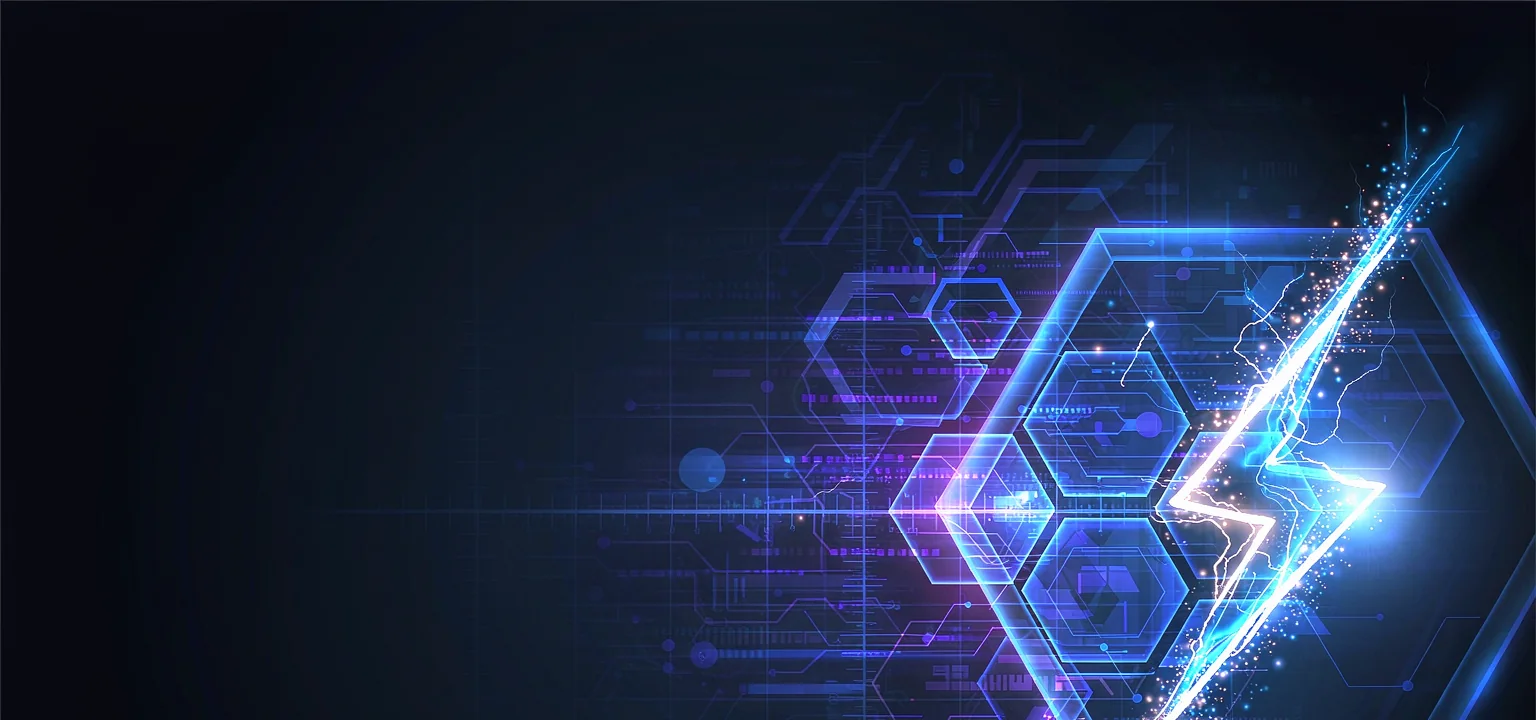
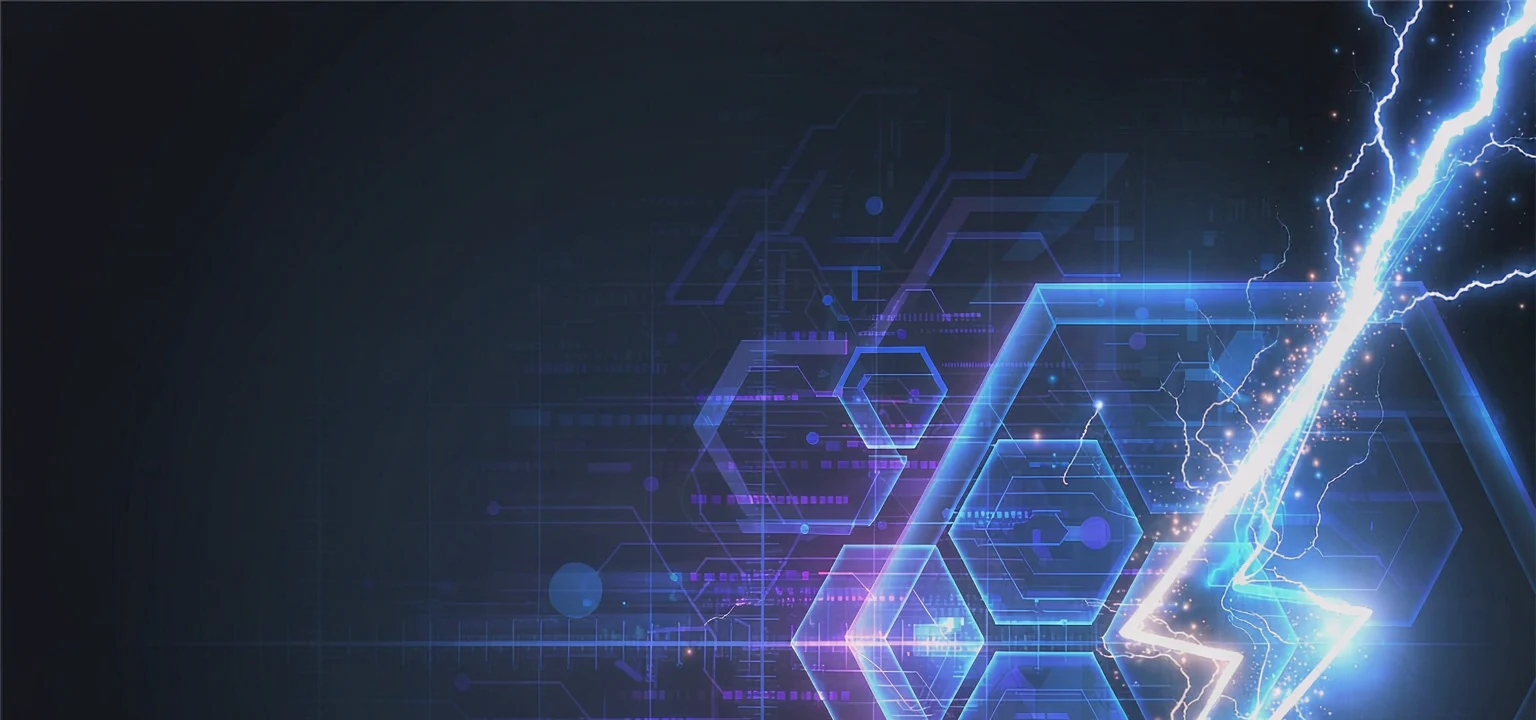
thunder hero: regenerate art with much bolder lightning (img2img), recenter focal anchors

diff --git a/site.css b/site.css
@@ -176,8 +176,8 @@ button.theme-toggle:hover { border-color: var(--acc); }
 }
 .hero-banner--thunder {
   --hb-acc: #4653b0; --hb-glow: rgba(70,83,176,.20);
-  --hb-base: #e7e1d8; --hb-rgb: 231,225,216; --hb-py: 69%;
-  --hb-art: url(assets/hero-banner-thunder-light.webp);
+  --hb-base: #e7e1d8; --hb-rgb: 231,225,216; --hb-py: 68%;
+  --hb-art: url(assets/hero-banner-thunder-light.webp?v=2);
 }
 
 /* the artwork layer, feathered along its left edge */
@@ -257,8 +257,8 @@ html[lang="zh-CN"] .hb-kicker { letter-spacing: .06em; }
   --hb-acc: #ff8a5c; --hb-glow: rgba(255,116,64,.5);
 }
 :root[data-theme="dark"] .hero-banner--thunder {
-  --hb-base: #080911; --hb-rgb: 8,9,17; --hb-py: 66%;
-  --hb-art: url(assets/hero-banner-thunder.webp);
+  --hb-base: #080911; --hb-rgb: 8,9,17; --hb-py: 69%;
+  --hb-art: url(assets/hero-banner-thunder.webp?v=2);
   --hb-acc: #93a8ff; --hb-glow: rgba(110,150,255,.5);
 }
 :root[data-theme="dark"] .hero-banner h1 { text-shadow: 0 0 22px var(--hb-glow), 0 0 60px rgba(0,0,0,.35); }
@@ -274,8 +274,8 @@ html[lang="zh-CN"] .hb-kicker { letter-spacing: .06em; }
     --hb-acc: #ff8a5c; --hb-glow: rgba(255,116,64,.5);
   }
   :root:not([data-theme="light"]) .hero-banner--thunder {
-    --hb-base: #080911; --hb-rgb: 8,9,17; --hb-py: 66%;
-    --hb-art: url(assets/hero-banner-thunder.webp);
+    --hb-base: #080911; --hb-rgb: 8,9,17; --hb-py: 69%;
+    --hb-art: url(assets/hero-banner-thunder.webp?v=2);
     --hb-acc: #93a8ff; --hb-glow: rgba(110,150,255,.5);
   }
   :root:not([data-theme="light"]) .hero-banner h1 { text-shadow: 0 0 22px var(--hb-glow), 0 0 60px rgba(0,0,0,.35); }

diff --git a/thunder/specification.html b/thunder/specification.html
@@ -4,7 +4,7 @@
 <meta charset="utf-8">
 <meta name="viewport" content="width=device-width, initial-scale=1">
 <title>Specification — Thunder (hash-33)</title>
-<link rel="stylesheet" href="../site.css?v=38">
+<link rel="stylesheet" href="../site.css?v=40">
 <script src="../theme.js?v=2"></script>
 <link rel="icon" type="image/png" href="../assets/favicon-thunder.png">
 <meta name="description" content="Thunder (hash-33), an NGCC Round-1 hash candidate: the 12-round permutation Thunder-p (Keccak-p lane geometry, order ι→ρ→θ→π→ψ, degree-3 ψ) in the sponge-forward mode. Parameters, sponge-forward mode and the permutation, with round constants.">

diff --git a/dragon/implementations.html b/dragon/implementations.html
@@ -4,7 +4,7 @@
 <meta charset="utf-8">
 <meta name="viewport" content="width=device-width, initial-scale=1">
 <title>Implementations — Dragon (hash-07)</title>
-<link rel="stylesheet" href="../site.css?v=38">
+<link rel="stylesheet" href="../site.css?v=40">
 <script src="../theme.js?v=2"></script>
 <link rel="icon" type="image/png" href="../assets/favicon-dragon.png">
 <meta name="description" content="Dragon (hash-07), an NGCC Round-1 hash candidate: the 16-round ARX permutation Dragon-p in the sponge-forward mode — specs, code, KAT, performance and third-party analysis. Package layout, build & KAT instructions, implementation-vs-spec review notes.">

diff --git a/dragon/performance.html b/dragon/performance.html
@@ -4,7 +4,7 @@
 <meta charset="utf-8">
 <meta name="viewport" content="width=device-width, initial-scale=1">
 <title>Performance — Dragon (hash-07)</title>
-<link rel="stylesheet" href="../site.css?v=38">
+<link rel="stylesheet" href="../site.css?v=40">
 <script src="../theme.js?v=2"></script>
 <link rel="icon" type="image/png" href="../assets/favicon-dragon.png">
 <meta name="description" content="Dragon (hash-07), an NGCC Round-1 hash candidate: the 16-round ARX permutation Dragon-p in the sponge-forward mode — specs, code, KAT, performance and third-party analysis. Designer self-assessment (S1–S8, x86-64 and ARM) and the ASIC hardware tables.">

diff --git a/dragon/analysis.html b/dragon/analysis.html
@@ -4,7 +4,7 @@
 <meta charset="utf-8">
 <meta name="viewport" content="width=device-width, initial-scale=1">
 <title>Analysis — Dragon (hash-07)</title>
-<link rel="stylesheet" href="../site.css?v=38">
+<link rel="stylesheet" href="../site.css?v=40">
 <script src="../theme.js?v=2"></script>
 <link rel="icon" type="image/png" href="../assets/favicon-dragon.png">
 <meta name="description" content="Dragon (hash-07), an NGCC Round-1 hash candidate: the 16-round ARX permutation Dragon-p in the sponge-forward mode — specs, code, KAT, performance and third-party analysis. Third-party security status, constant-time audit and implementation review notes.">

diff --git a/dragon/specification.html b/dragon/specification.html
@@ -4,7 +4,7 @@
 <meta charset="utf-8">
 <meta name="viewport" content="width=device-width, initial-scale=1">
 <title>Specification — Dragon (hash-07)</title>
-<link rel="stylesheet" href="../site.css?v=38">
+<link rel="stylesheet" href="../site.css?v=40">
 <script src="../theme.js?v=2"></script>
 <link rel="icon" type="image/png" href="../assets/favicon-dragon.png">
 <meta name="description" content="Dragon (hash-07), an NGCC Round-1 hash candidate: the 16-round ARX permutation Dragon-p in the sponge-forward mode — specs, code, KAT, performance and third-party analysis. Parameters, sponge-forward mode and the permutation, with round constants.">

diff --git a/dragon/implementations.zh.html b/dragon/implementations.zh.html
@@ -4,7 +4,7 @@
 <meta charset="utf-8">
 <meta name="viewport" content="width=device-width, initial-scale=1">
 <title>实现 — Dragon (hash-07)</title>
-<link rel="stylesheet" href="../site.css?v=38">
+<link rel="stylesheet" href="../site.css?v=40">
 <script src="../theme.js?v=2"></script>
 <link rel="icon" type="image/png" href="../assets/favicon-dragon.png">
 <meta name="description" content="Dragon（hash-07），NGCC Round-1 杂凑候选：16 轮 ARX 置换 Dragon-p + sponge-forward 前馈模式——规范、实现、自测向量、性能与第三方分析。 提交包结构、构建与 KAT 步骤、实现与规范核对注记。">

diff --git a/dragon/analysis.zh.html b/dragon/analysis.zh.html
@@ -4,7 +4,7 @@
 <meta charset="utf-8">
 <meta name="viewport" content="width=device-width, initial-scale=1">
 <title>分析 — Dragon (hash-07)</title>
-<link rel="stylesheet" href="../site.css?v=38">
+<link rel="stylesheet" href="../site.css?v=40">
 <script src="../theme.js?v=2"></script>
 <link rel="icon" type="image/png" href="../assets/favicon-dragon.png">
 <meta name="description" content="Dragon（hash-07），NGCC Round-1 杂凑候选：16 轮 ARX 置换 Dragon-p + sponge-forward 前馈模式——规范、实现、自测向量、性能与第三方分析。 第三方安全状态、constant-time 审查与实现核对注记。">

diff --git a/thunder/implementations.html b/thunder/implementations.html
@@ -4,7 +4,7 @@
 <meta charset="utf-8">
 <meta name="viewport" content="width=device-width, initial-scale=1">
 <title>Implementations — Thunder (hash-33)</title>
-<link rel="stylesheet" href="../site.css?v=38">
+<link rel="stylesheet" href="../site.css?v=40">
 <script src="../theme.js?v=2"></script>
 <link rel="icon" type="image/png" href="../assets/favicon-thunder.png">
 <meta name="description" content="Thunder (hash-33), an NGCC Round-1 hash candidate: the 12-round Keccak-p-shaped permutation Thunder-p with a degree-3 layer in the sponge-forward mode. Package layout, build & KAT instructions, implementation-vs-spec review notes.">

diff --git a/thunder/specification.zh.html b/thunder/specification.zh.html
@@ -4,7 +4,7 @@
 <meta charset="utf-8">
 <meta name="viewport" content="width=device-width, initial-scale=1">
 <title>规范 — Thunder (hash-33)</title>
-<link rel="stylesheet" href="../site.css?v=38">
+<link rel="stylesheet" href="../site.css?v=40">
 <script src="../theme.js?v=2"></script>
 <link rel="icon" type="image/png" href="../assets/favicon-thunder.png">
 <meta name="description" content="Thunder（hash-33），NGCC Round-1 杂凑候选：12 轮置换 Thunder-p（Keccak-p lane 几何，序 ι→ρ→θ→π→ψ，三次 ψ）+ sponge-forward 前馈模式。 参数表、sponge-forward 模式与置换（含轮常数表）。">

diff --git a/dragon/performance.zh.html b/dragon/performance.zh.html
@@ -4,7 +4,7 @@
 <meta charset="utf-8">
 <meta name="viewport" content="width=device-width, initial-scale=1">
 <title>性能 — Dragon (hash-07)</title>
-<link rel="stylesheet" href="../site.css?v=38">
+<link rel="stylesheet" href="../site.css?v=40">
 <script src="../theme.js?v=2"></script>
 <link rel="icon" type="image/png" href="../assets/favicon-dragon.png">
 <meta name="description" content="Dragon（hash-07），NGCC Round-1 杂凑候选：16 轮 ARX 置换 Dragon-p + sponge-forward 前馈模式——规范、实现、自测向量、性能与第三方分析。 本组自评估（S1–S8，x86-64 与 ARM）与 ASIC 硬件表。">

diff --git a/dragon/specification.zh.html b/dragon/specification.zh.html
@@ -4,7 +4,7 @@
 <meta charset="utf-8">
 <meta name="viewport" content="width=device-width, initial-scale=1">
 <title>规范 — Dragon (hash-07)</title>
-<link rel="stylesheet" href="../site.css?v=38">
+<link rel="stylesheet" href="../site.css?v=40">
 <script src="../theme.js?v=2"></script>
 <link rel="icon" type="image/png" href="../assets/favicon-dragon.png">
 <meta name="description" content="Dragon（hash-07），NGCC Round-1 杂凑候选：16 轮 ARX 置换 Dragon-p + sponge-forward 前馈模式——规范、实现、自测向量、性能与第三方分析。 参数表、sponge-forward 模式与置换（含轮常数表）。">
